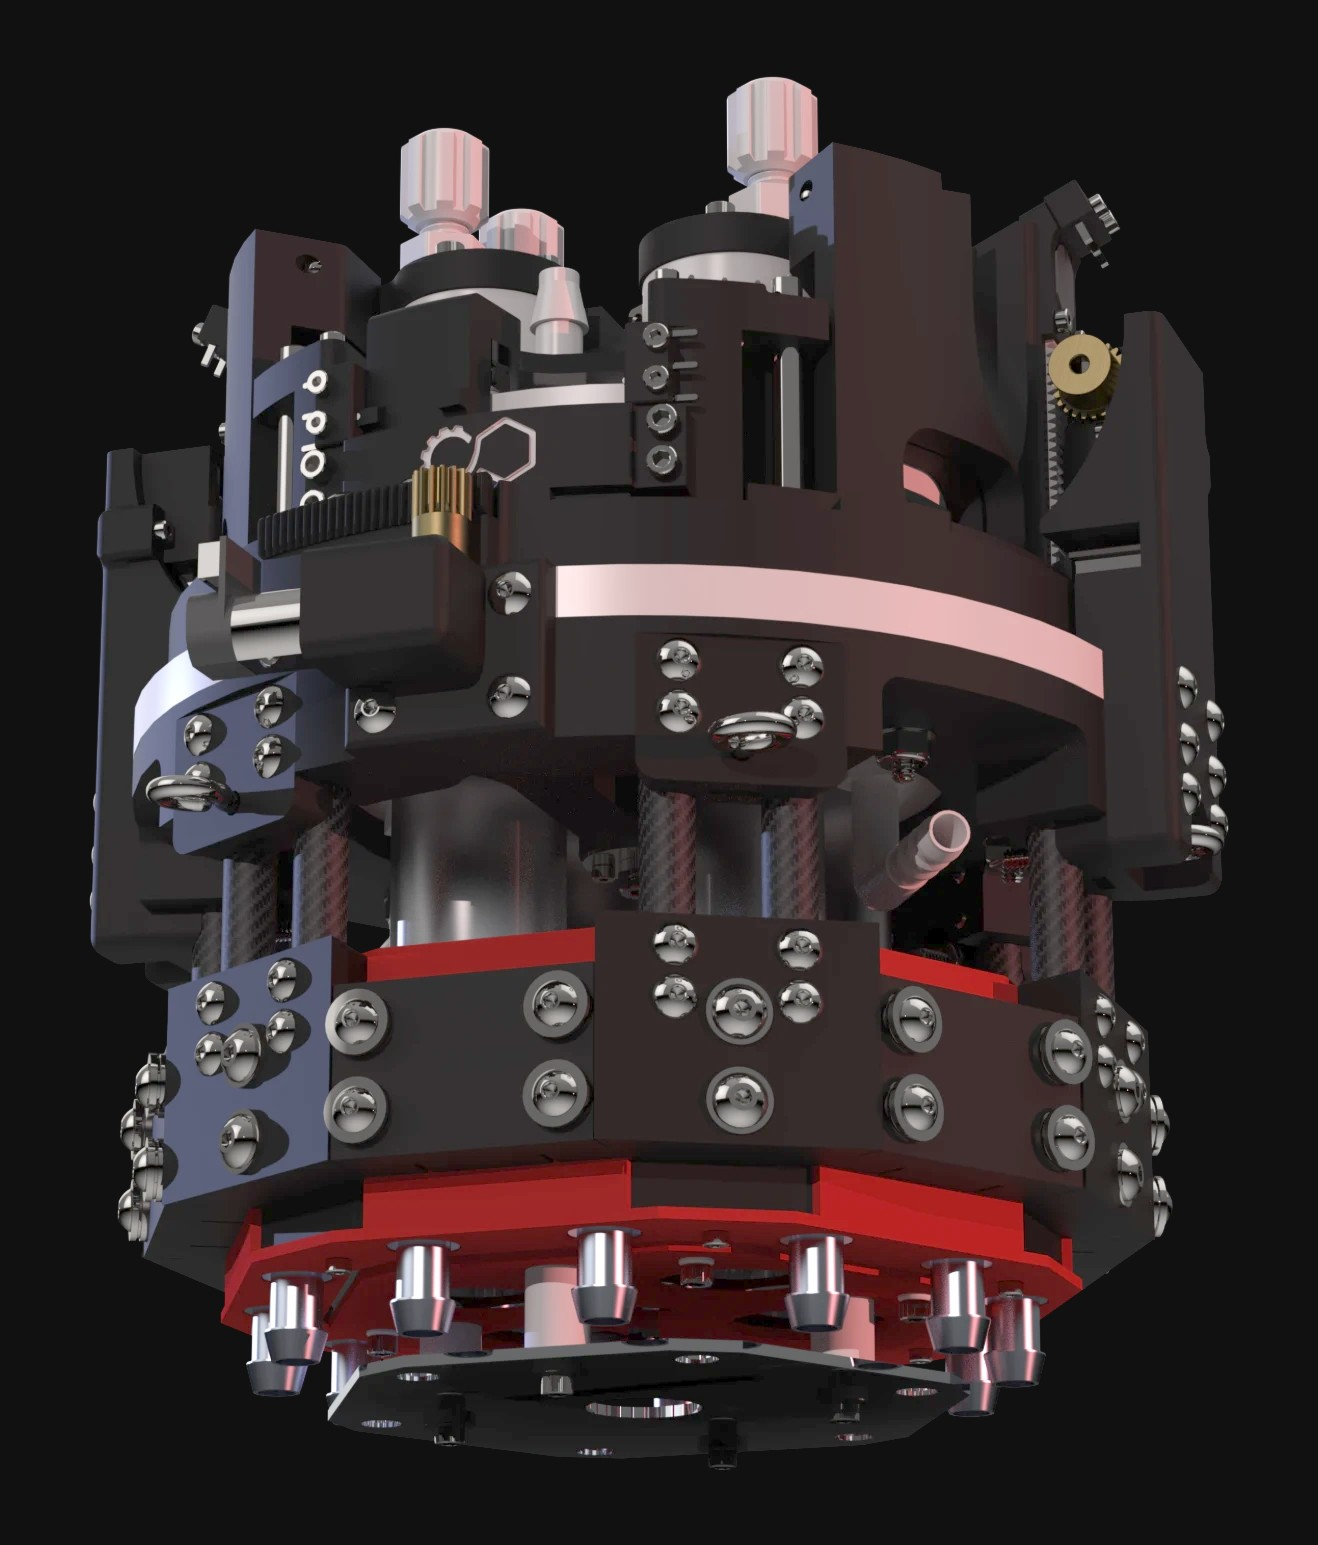
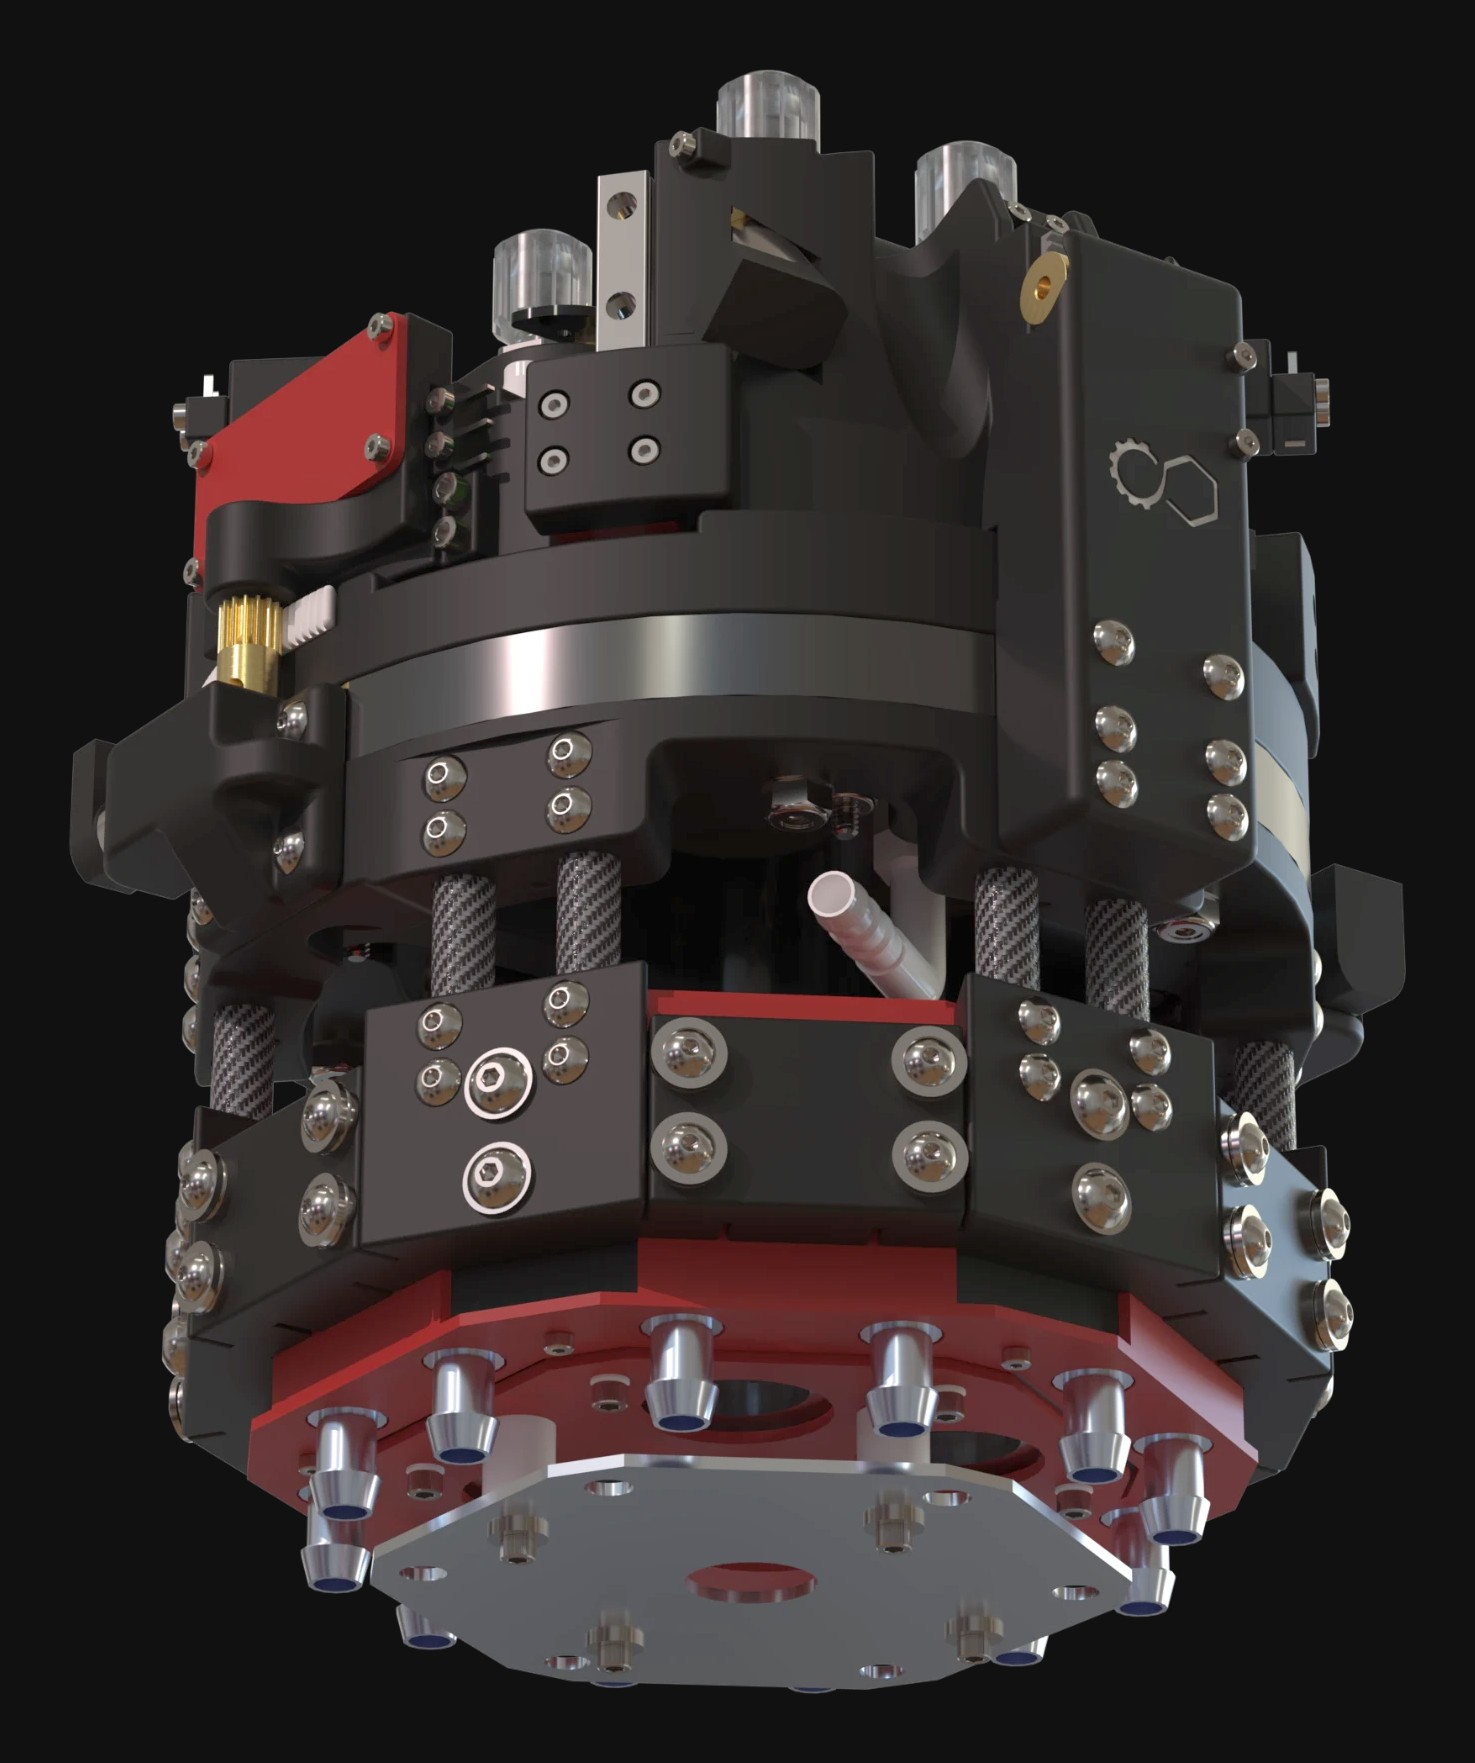
Chembotix: replace renders with the updated reactor views
Claude-Session: https://claude.ai/code/session_01FRyJPBebUtKmxdzujR9oGm

diff --git a/projects/chembotix.html b/projects/chembotix.html
@@ -44,14 +44,10 @@
   </ul>
 
   <div class="shots" style="margin-top:56px">
-    <figure><img src="../images/projects/chembotix/reactor-views.jpg" alt="Three views of the Chembotix chemical reactor side by side: three-quarter, front, and from below" loading="lazy"></figure>
-  </div>
-
-  <div class="shots" style="margin-top:var(--gap)">
     <div class="row fit">
-      <figure style="--ar:0.853"><img src="../images/projects/chembotix/reactor-front.jpg" alt="Chembotix chemical reactor from the front: black frame with red base, carbon fiber rods, and two vial lids with hose fittings" loading="lazy"><figcaption>Front</figcaption></figure>
-      <figure style="--ar:0.798"><img src="../images/projects/chembotix/reactor-three-quarter.jpg" alt="Three-quarter view of the reactor showing four vial lids, condensers, and the drive gear" loading="lazy"><figcaption>Three-quarter · four vial lids</figcaption></figure>
-      <figure style="--ar:0.853"><img src="../images/projects/chembotix/reactor-low.jpg" alt="Low-angle view of the reactor showing the solenoid ring and base fittings" loading="lazy"><figcaption>Low angle · solenoid ring and base</figcaption></figure>
+      <figure style="--ar:0.777"><img src="../images/projects/chembotix/reactor-three-quarter.jpg" alt="Chembotix chemical reactor in three-quarter view: four clear vial caps above black housings, red access panels, and carbon fiber rods over the red solenoid ring" loading="lazy"><figcaption>Three-quarter · four vial lids</figcaption></figure>
+      <figure style="--ar:0.88"><img src="../images/projects/chembotix/reactor-front.jpg" alt="Front view of the reactor showing two vial lids, the central lid drive gear, and the solenoid ring below" loading="lazy"><figcaption>Front · lid drive</figcaption></figure>
+      <figure style="--ar:0.837"><img src="../images/projects/chembotix/reactor-low.jpg" alt="Low-angle view of the reactor showing the octagonal base plate with fluid fittings and the solenoid ring" loading="lazy"><figcaption>Low angle · solenoid ring and base</figcaption></figure>
     </div>
   </div>
 
